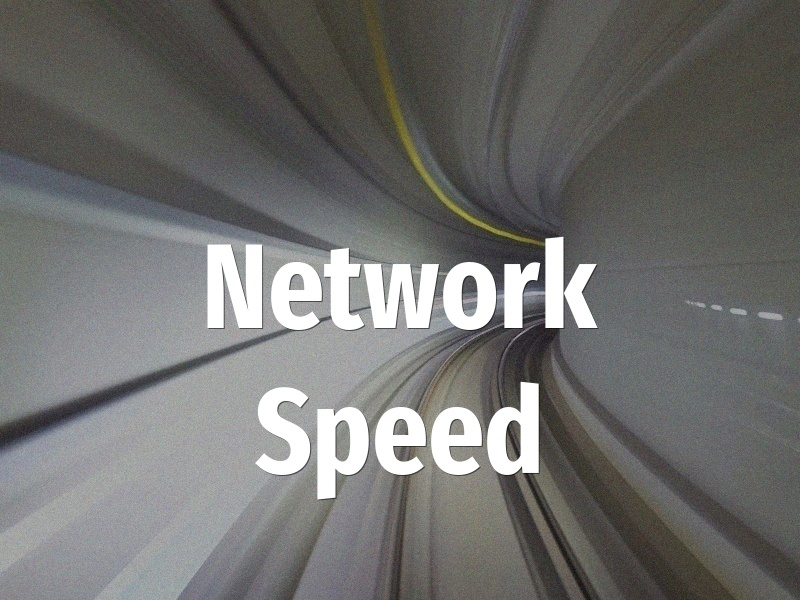
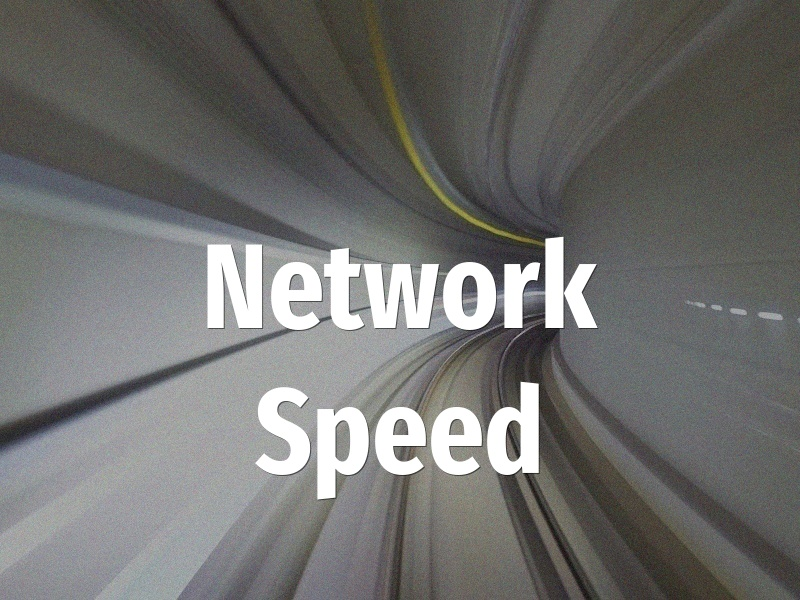
ADD: abrp.jpg browser.jpg gmaps.jpg hacker.jpg nuuz.jpg speed.jpg time.jpg weather.jpg, MOD: 2023-01-01-abrp.md 2023-01-01-gmaps.md 2023-01-07-browser.md 2023-01-07-speed.md 2023-01-07-time.md 2023-01-07-weather.md 2023-01-14-hackernews.md 2023-01-14-nuuz.md abrp.jpg browser.jpg generate.sh gmaps.jp

diff --git a/index.html b/index.html
@@ -3,11 +3,11 @@ layout: default
 title: Home
 ---
 <code style="float: right">v{% include version.html %}</code>
-<h2>{{site.title}}</h2>
+<h3>{{site.title}}</h3>
 
   <div class="row justify-content-center">
     {% for post in paginator.posts %}
-    <div class="card col-3 col-6-sm">
+    <div class="card col-xl-2 col-lg-3 col-md-3 col-sm-6 col-6">
       {% if post.image %}
       <a href="{{ post.external }}"><img src="{{ post.image }}" class="card-img-top" alt="{{ post.title }}"></a>
       {% endif %}

diff --git a/_includes/version.html b/_includes/version.html
@@ -1,1 +1,1 @@
-../VERSION.md
+1.0.10

diff --git a/_posts/2023-01-07-weather.md b/_posts/2023-01-07-weather.md
@@ -1,7 +1,7 @@
 ---
 title: Weather
 layout: post
-image: /images/weather.jpg
+image: /images/small/weather.jpg
 external: https://www.accuweather.com/en/be/grimbergen/31674/daily-weather-forecast/31674
 icons: <i class="fas fa-temperature-low"></i>
 ---

diff --git a/_posts/2023-01-07-browser.md b/_posts/2023-01-07-browser.md
@@ -1,7 +1,7 @@
 ---
 title: Browser
 layout: post
-image: /images/browser.jpg
+image: /images/small/browser.jpg
 external: https://faisalman.github.io/ua-parser-js/#demo
 icons: <i class="fas fa-check-square"></i>
 ---

diff --git a/_posts/2023-01-01-abrp.md b/_posts/2023-01-01-abrp.md
@@ -1,7 +1,7 @@
 ---
 title: Route Planner
 layout: post
-image: /images/abrp.jpg
+image: /images/small/abrp.jpg
 external: https://abetterrouteplanner.com/
 icons: <i class="fas fa-map-marker-alt"></i>
 ---

diff --git a/_posts/2023-01-14-hackernews.md b/_posts/2023-01-14-hackernews.md
@@ -1,7 +1,7 @@
 ---
 title: Hacker News
 layout: post
-image: /images/hacker.jpg
+image: /images/small/hacker.jpg
 external: https://hacker-news.news/TopStory
 icons: <i class="far fa-newspaper"></i>
 ---

diff --git a/_posts/2023-01-01-gmaps.md b/_posts/2023-01-01-gmaps.md
@@ -1,7 +1,7 @@
 ---
 title: Google Maps
 layout: post
-image: /images/gmaps.jpg
+image: /images/small/gmaps.jpg
 external: https://www.google.com/maps
 icons: <i class="fas fa-map-marker-alt"></i>
 ---

diff --git a/_posts/2023-01-07-speed.md b/_posts/2023-01-07-speed.md
@@ -1,7 +1,7 @@
 ---
 title: Network Speed
 layout: post
-image: /images/speed.jpg
+image: /images/small/speed.jpg
 external: https://fast.com/
 icons: <i class="fas fa-tachometer-alt"></i>
 ---

diff --git a/_posts/2023-01-14-nuuz.md b/_posts/2023-01-14-nuuz.md
@@ -1,7 +1,7 @@
 ---
 title: Tesla Nuuz
 layout: post
-image: /images/nuuz.jpg
+image: /images/small/nuuz.jpg
 external: https://nuuz.io/tesla
 icons: <i class="far fa-newspaper"></i>
 ---

diff --git a/_posts/2023-01-07-time.md b/_posts/2023-01-07-time.md
@@ -1,7 +1,7 @@
 ---
 title: Exact Time
 layout: post
-image: /images/time.jpg
+image: /images/small/time.jpg
 external: https://time.is/
 icons: <i class="far fa-clock"></i>
 ---

diff --git a/VERSION.md b/VERSION.md
@@ -1,1 +1,1 @@
-1.0.10
+_includes/version.html
